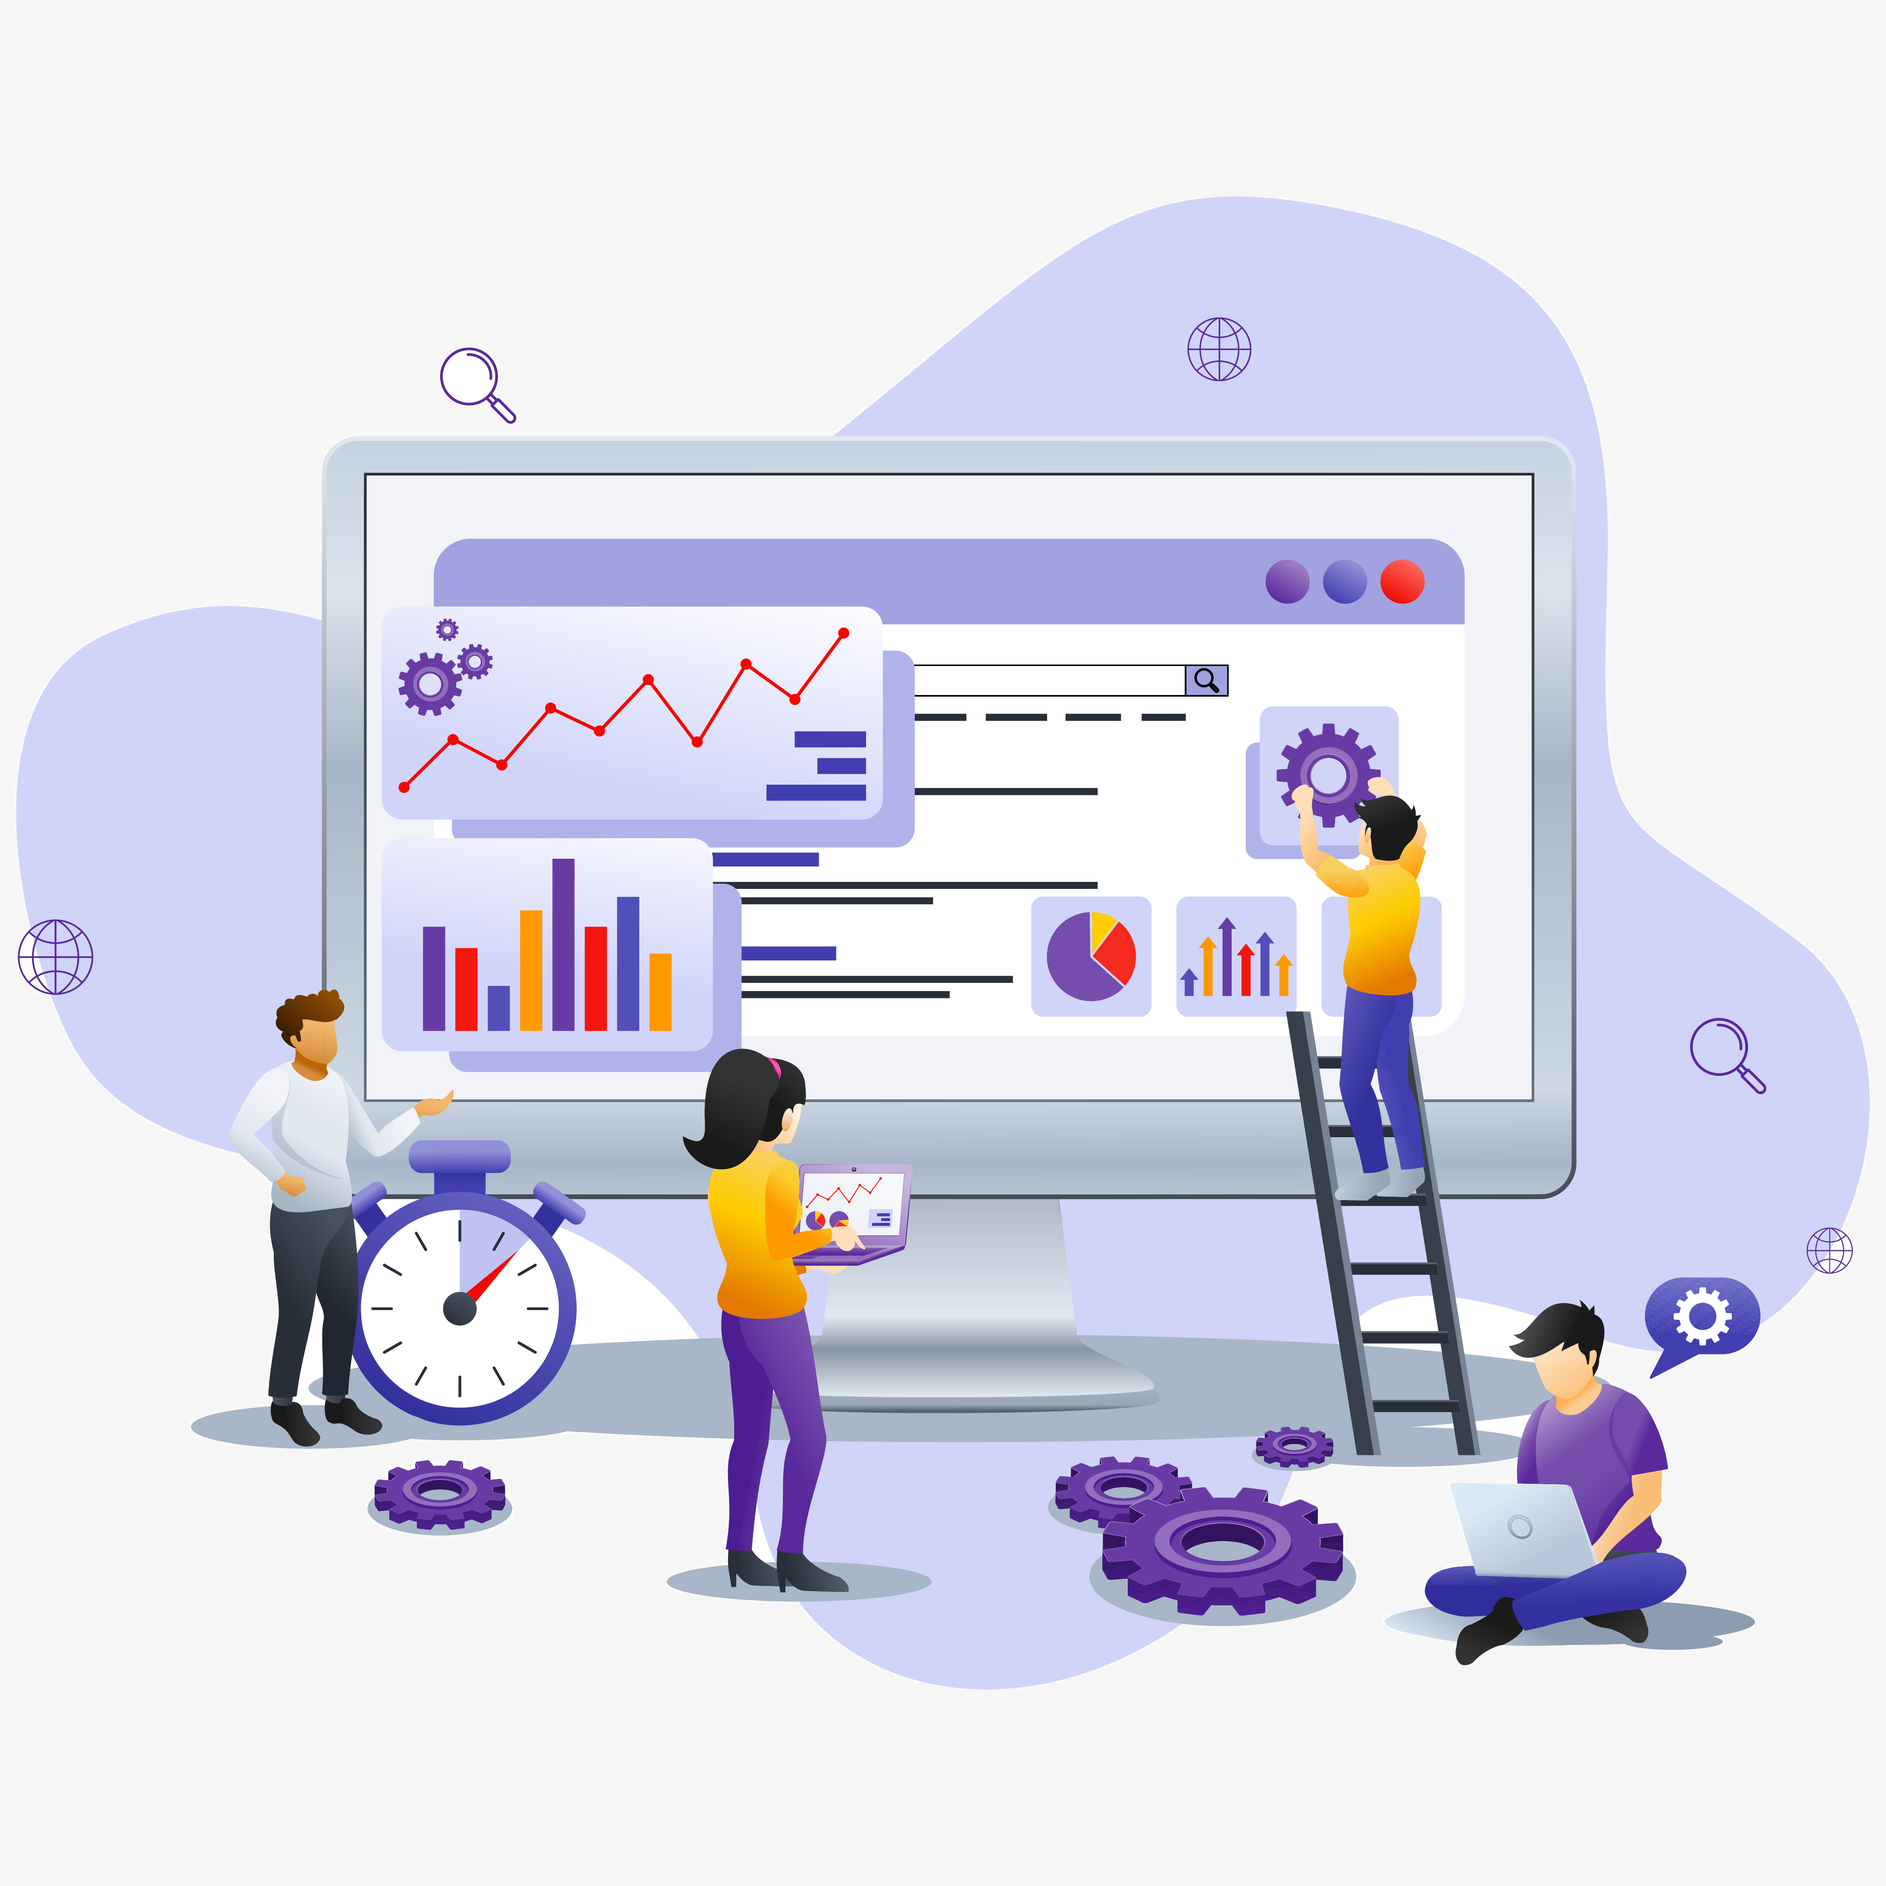
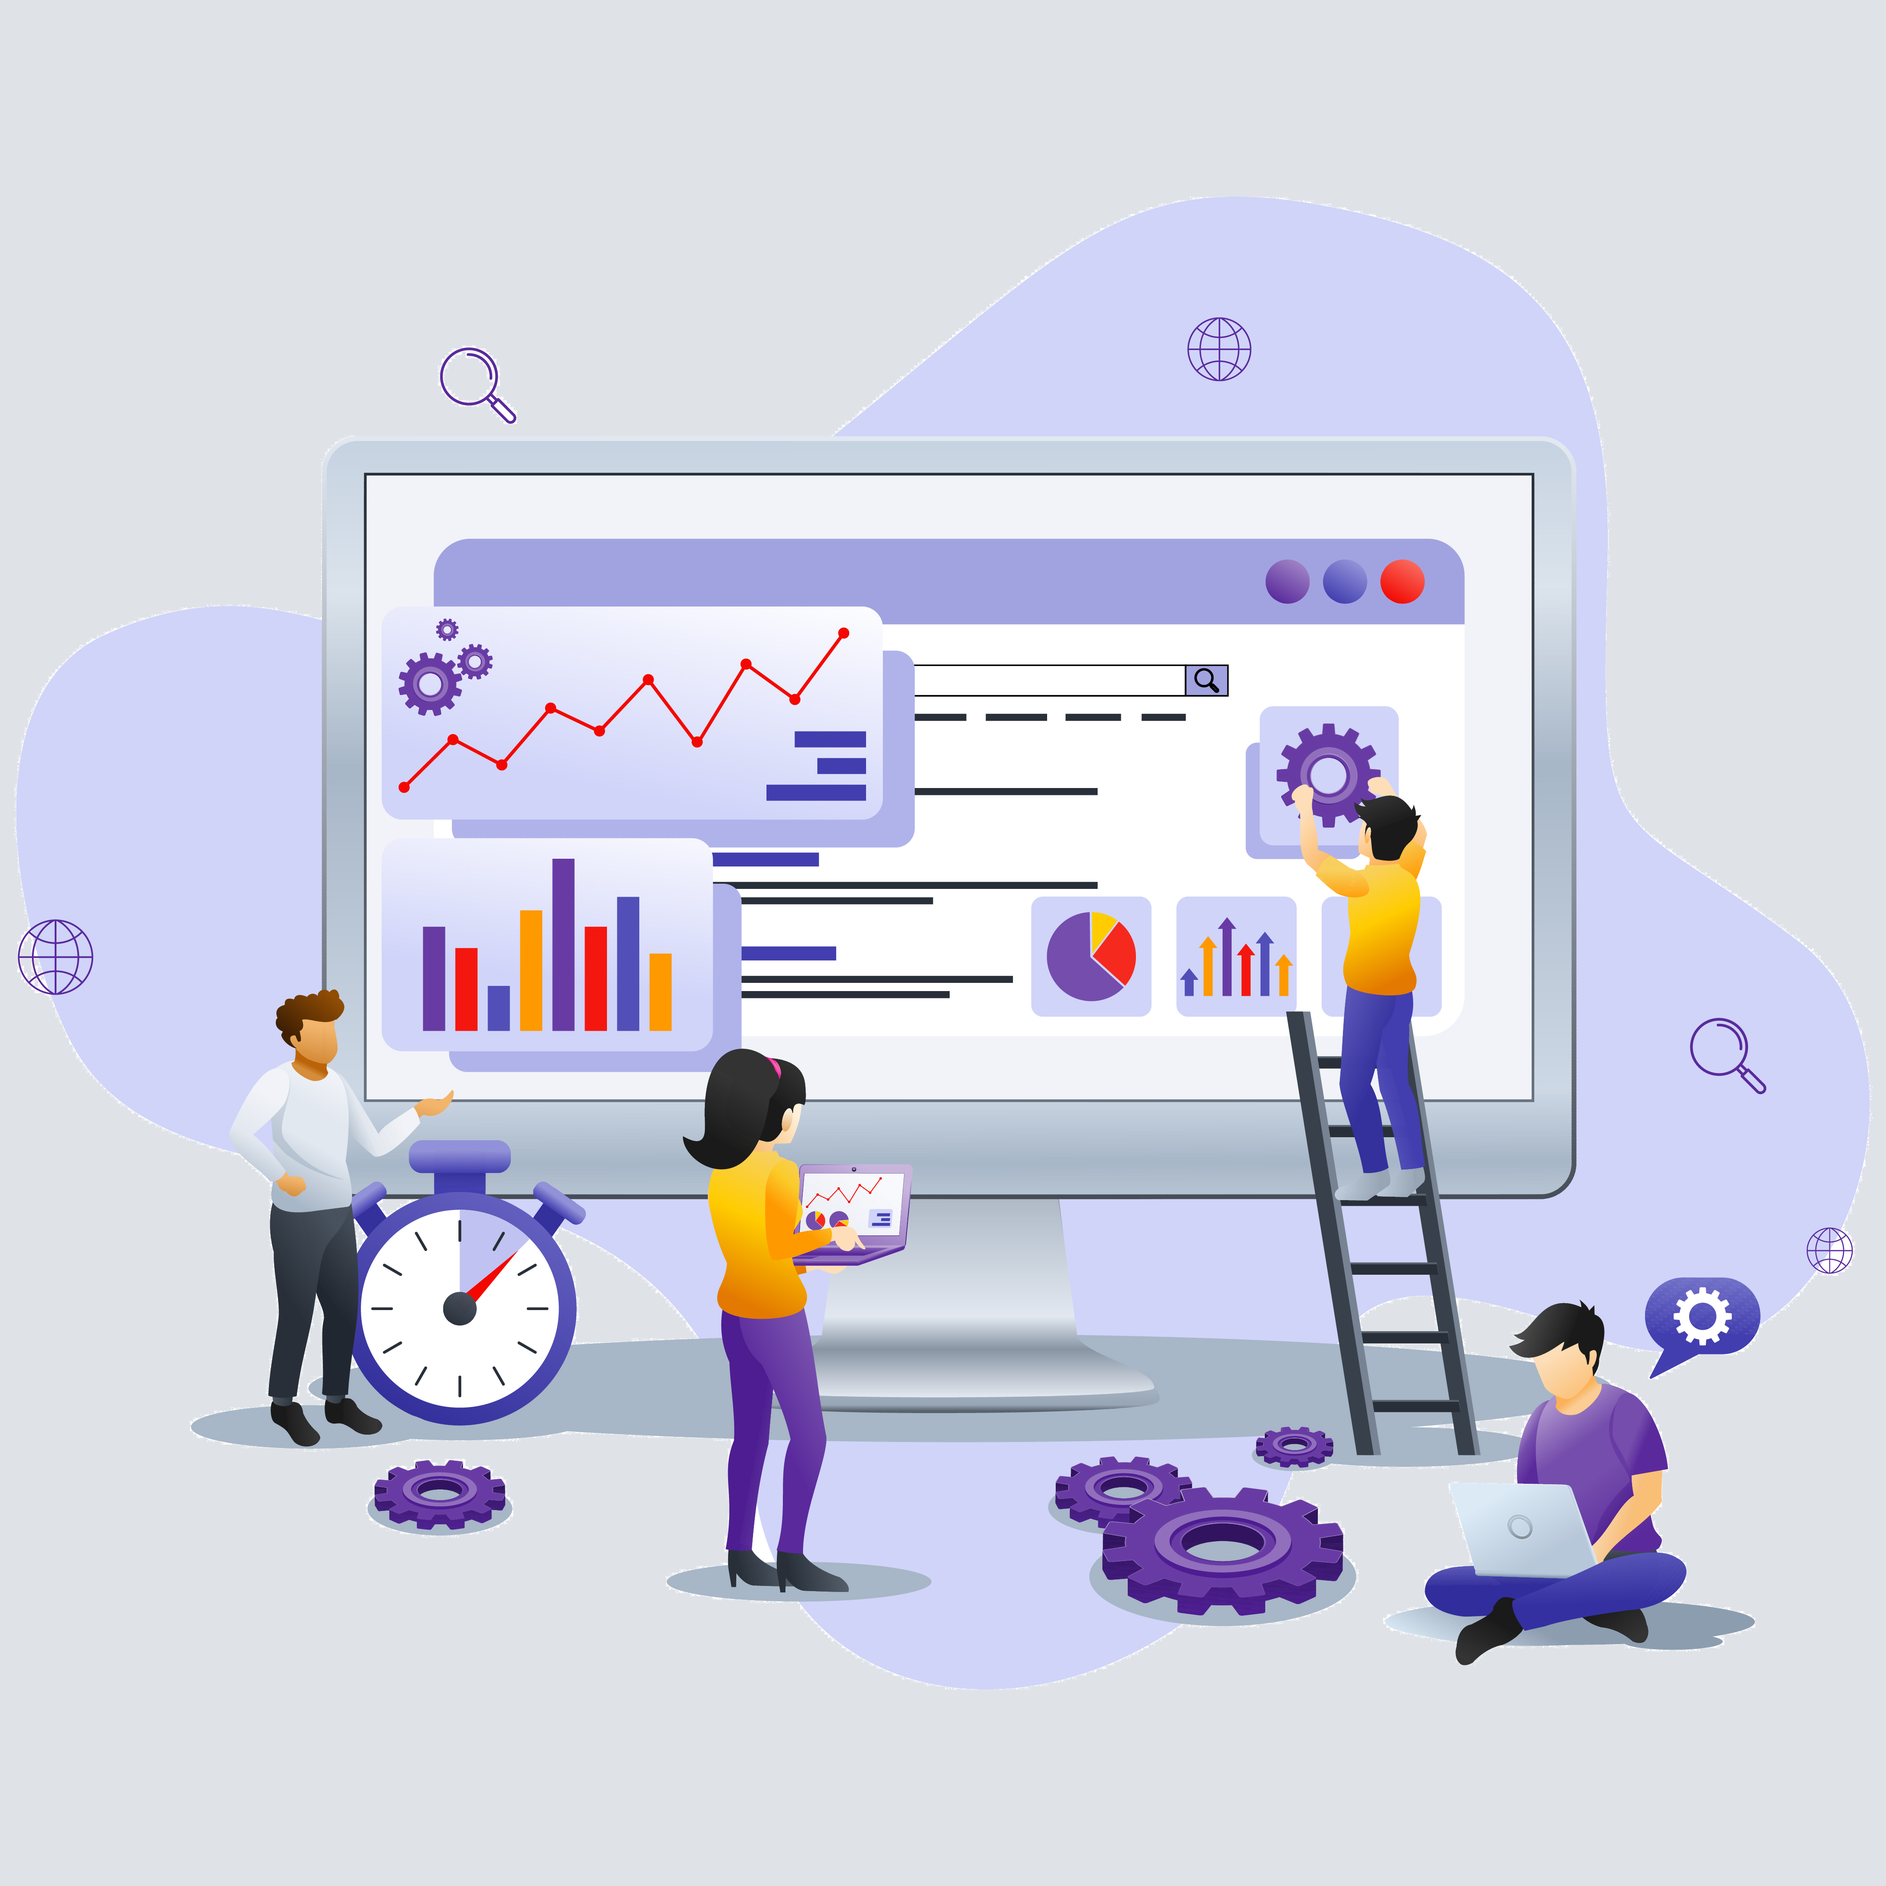
update styles devices

diff --git a/src/components/DevicesComponents/SwitchDevice/SwitchDevice.tsx b/src/components/DevicesComponents/SwitchDevice/SwitchDevice.tsx
@@ -6,9 +6,7 @@ import {
   Grid,
   IconButton,
   Paper,
-  Theme,
-  Typography,
-  useTheme
+  Typography
 } from '@mui/material'
 import LightbulbIcon from '@mui/icons-material/Lightbulb'
 import ElectricalServicesIcon from '@mui/icons-material/ElectricalServices'
@@ -36,7 +34,6 @@ const SwitchDevice = ({ device, variables, sendEvent }: any): JSX.Element => {
     })
   }
 
-  const theme: Theme = useTheme()
   return (
     <Grid item>
       <Paper
@@ -46,7 +43,7 @@ const SwitchDevice = ({ device, variables, sendEvent }: any): JSX.Element => {
           width: '180px',
           height: '200px',
           // backgroundColor: '#00C2A8, #3a3a39',  menu #34383c
-          backgroundColor: '#009EFA',
+          // backgroundColor: '#009EFA',
           display: 'grid',
           gridTemplate: '1fr 1fr / 1fr',
           gap: 0,
@@ -65,8 +62,9 @@ const SwitchDevice = ({ device, variables, sendEvent }: any): JSX.Element => {
         >
           <IconButton aria-label="icon_device">
             <LightbulbIcon
-              sx={{ height: 48, width: 48, opacity: 0.6 }}
-              htmlColor={`${state ? 'white' : '#000'}`}
+              sx={{ height: 48, width: 48 }}
+              // htmlColor="#a1abb3"
+              color={`${state ? 'primary' : 'action'}`}
             />
           </IconButton>
           <ElectricalServicesIcon
@@ -84,7 +82,6 @@ const SwitchDevice = ({ device, variables, sendEvent }: any): JSX.Element => {
         >
           <Box
             sx={{
-              backgroundColor: '#00000042',
               width: '100%',
               textAlign: 'center',
               fontSize: '0.05rem',
@@ -95,7 +92,7 @@ const SwitchDevice = ({ device, variables, sendEvent }: any): JSX.Element => {
               component="h6"
               variant="subtitle1"
               noWrap
-              color={theme.palette.common.white}
+              color="text.primary"
             >
               {device.name}
             </Typography>
@@ -121,9 +118,9 @@ const SwitchDevice = ({ device, variables, sendEvent }: any): JSX.Element => {
                       <Typography
                         variant="subtitle2"
                         component="p"
+                        color="text.secondary"
                         sx={{
                           fontWeight: 600,
-                          color: '#000',
                           letterSpacing: 0.6,
                           opacity: 0.8
                         }}
@@ -134,9 +131,9 @@ const SwitchDevice = ({ device, variables, sendEvent }: any): JSX.Element => {
                       <Typography
                         variant="subtitle2"
                         component="p"
+                        color="text.secondary"
                         sx={{
                           fontWeight: 600,
-                          color: '#000',
                           letterSpacing: 0.6,
                           opacity: 0.8
                         }}

diff --git a/src/components/DevicesComponents/TemperatureSensorDevice/TemperatureSensorDevice.tsx b/src/components/DevicesComponents/TemperatureSensorDevice/TemperatureSensorDevice.tsx
@@ -1,12 +1,4 @@
-import {
-  Box,
-  Grid,
-  IconButton,
-  Paper,
-  Theme,
-  Typography,
-  useTheme
-} from '@mui/material'
+import { Box, Grid, IconButton, Paper, Typography } from '@mui/material'
 import WbSunnyIcon from '@mui/icons-material/WbSunny'
 import { Air, AcUnit } from '@mui/icons-material'
 
@@ -24,6 +16,7 @@ const DoorSensorDevice = ({
   useEffect(() => {
     // setArmed(device.armed)
     setTemp(variables.filter((item: any) => item.name === 'temp')[0].value)
+
     // setBattery(variables.filter((item) => item.name === 'battery')[0].value)
   }, [variables])
 
@@ -38,27 +31,14 @@ const DoorSensorDevice = ({
 
   const handleTempIcon: () => JSX.Element = () => {
     if (temp.value >= 28) {
-      return (
-        <WbSunnyIcon
-          sx={{ height: 48, width: 48, opacity: 0.6 }}
-          htmlColor="white"
-        />
-      )
+      return <WbSunnyIcon sx={{ height: 48, width: 48 }} color="warning" />
     } else if (temp.value >= 25) {
-      return (
-        <Air sx={{ height: 48, width: 48, opacity: 0.6 }} htmlColor="#90fb7d" />
-      )
+      return <Air sx={{ height: 48, width: 48 }} color="success" />
     } else {
-      return (
-        <AcUnit
-          sx={{ height: 48, width: 48, opacity: 0.6 }}
-          htmlColor="black"
-        />
-      )
+      return <AcUnit sx={{ height: 48, width: 48 }} color="primary" />
     }
   }
 
-  const theme: Theme = useTheme()
   return (
     <Grid item>
       <Paper
@@ -67,7 +47,6 @@ const DoorSensorDevice = ({
           borderRadius: '24px 48px 24px 48px',
           width: '180px',
           height: '200px',
-          backgroundColor: '#009EFA',
           display: 'grid',
           gridTemplate: '1fr 1fr / 1fr',
           gap: 0,
@@ -86,7 +65,7 @@ const DoorSensorDevice = ({
         >
           <IconButton aria-label="icon_device">{handleTempIcon()}</IconButton>
           <Typography variant="subtitle2" color="inherit" component="div">
-            {temp.value}° {temp.scale}
+            {temp.value}° {(temp.scale as string).charAt(0).toUpperCase()}
           </Typography>
         </Box>
         <Box
@@ -99,7 +78,6 @@ const DoorSensorDevice = ({
         >
           <Box
             sx={{
-              backgroundColor: '#00000042',
               width: '100%',
               textAlign: 'center',
               letterSpacing: 0.6
@@ -109,7 +87,7 @@ const DoorSensorDevice = ({
               component="h6"
               variant="subtitle1"
               noWrap
-              color={theme.palette.common.white}
+              color="text.primary"
             >
               {device.name}
             </Typography>

diff --git a/src/components/DevicesComponents/MotionSensorDevice/MotionSensorDevice.tsx b/src/components/DevicesComponents/MotionSensorDevice/MotionSensorDevice.tsx
@@ -6,9 +6,7 @@ import {
   Grid,
   IconButton,
   Paper,
-  Theme,
-  Typography,
-  useTheme
+  Typography
 } from '@mui/material'
 import { DirectionsWalk } from '@mui/icons-material'
 import { useEffect, useState } from 'react'
@@ -48,7 +46,6 @@ const MotionSensorDevice = ({
     // })
   }
 
-  const theme: Theme = useTheme()
   return (
     <Grid item>
       <Paper
@@ -57,7 +54,6 @@ const MotionSensorDevice = ({
           borderRadius: '24px 48px 24px 48px',
           width: '180px',
           height: '200px',
-          backgroundColor: '#009EFA',
           display: 'grid',
           gridTemplate: '1fr 1fr / 1fr',
           gap: 0,
@@ -76,8 +72,8 @@ const MotionSensorDevice = ({
         >
           <IconButton aria-label="icon_device">
             <DirectionsWalk
-              sx={{ height: 48, width: 48, opacity: 0.6 }}
-              htmlColor={`${tripped ? 'red' : '#000'}`}
+              sx={{ height: 48, width: 48 }}
+              color={`${tripped ? 'error' : 'action'}`}
             />
           </IconButton>
           <Typography variant="subtitle2" color="inherit" component="div">
@@ -94,7 +90,6 @@ const MotionSensorDevice = ({
         >
           <Box
             sx={{
-              backgroundColor: '#00000042',
               width: '100%',
               textAlign: 'center',
               letterSpacing: 0.6
@@ -104,7 +99,7 @@ const MotionSensorDevice = ({
               component="h6"
               variant="subtitle1"
               noWrap
-              color={theme.palette.common.white}
+              color="text.primary"
             >
               {device.name}
             </Typography>
@@ -130,9 +125,9 @@ const MotionSensorDevice = ({
                       <Typography
                         variant="subtitle2"
                         component="p"
+                        color="text.secondary"
                         sx={{
                           fontWeight: 600,
-                          color: '#000',
                           letterSpacing: 0.6,
                           opacity: 0.8
                         }}
@@ -143,9 +138,9 @@ const MotionSensorDevice = ({
                       <Typography
                         variant="subtitle2"
                         component="p"
+                        color="text.secondary"
                         sx={{
                           fontWeight: 600,
-                          color: '#000',
                           letterSpacing: 0.6,
                           opacity: 0.8
                         }}

diff --git a/src/components/DevicesComponents/DoorSensorDevice/DoorSensorDevice.tsx b/src/components/DevicesComponents/DoorSensorDevice/DoorSensorDevice.tsx
@@ -6,9 +6,7 @@ import {
   Grid,
   IconButton,
   Paper,
-  Theme,
-  Typography,
-  useTheme
+  Typography
 } from '@mui/material'
 import MeetingRoomIcon from '@mui/icons-material/MeetingRoom'
 
@@ -49,7 +47,6 @@ const DoorSensorDevice = ({
     // })
   }
 
-  const theme: Theme = useTheme()
   return (
     <Grid item>
       <Paper
@@ -58,7 +55,6 @@ const DoorSensorDevice = ({
           borderRadius: '24px 48px 24px 48px',
           width: '180px',
           height: '200px',
-          backgroundColor: '#009EFA',
           display: 'grid',
           gridTemplate: '1fr 1fr / 1fr',
           gap: 0,
@@ -77,8 +73,8 @@ const DoorSensorDevice = ({
         >
           <IconButton aria-label="icon_device">
             <MeetingRoomIcon
-              sx={{ height: 48, width: 48, opacity: 0.6 }}
-              htmlColor={`${tripped ? 'red' : '#000'}`}
+              sx={{ height: 48, width: 48 }}
+              color={`${tripped ? 'error' : 'action'}`}
             />
           </IconButton>
           <Typography variant="subtitle2" color="inherit" component="div">
@@ -95,7 +91,6 @@ const DoorSensorDevice = ({
         >
           <Box
             sx={{
-              backgroundColor: '#00000042',
               width: '100%',
               textAlign: 'center',
               letterSpacing: 0.6
@@ -105,7 +100,7 @@ const DoorSensorDevice = ({
               component="h6"
               variant="subtitle1"
               noWrap
-              color={theme.palette.common.white}
+              color="text.primary"
             >
               {device.name}
             </Typography>
@@ -131,9 +126,9 @@ const DoorSensorDevice = ({
                       <Typography
                         variant="subtitle2"
                         component="p"
+                        color="text.secondary"
                         sx={{
                           fontWeight: 600,
-                          color: '#000',
                           letterSpacing: 0.6,
                           opacity: 0.8
                         }}
@@ -144,9 +139,9 @@ const DoorSensorDevice = ({
                       <Typography
                         variant="subtitle2"
                         component="p"
+                        color="text.secondary"
                         sx={{
                           fontWeight: 600,
-                          color: '#000',
                           letterSpacing: 0.6,
                           opacity: 0.8
                         }}

diff --git a/src/theme/palette.tsx b/src/theme/palette.tsx
@@ -30,9 +30,9 @@ const GREY = {
 
 const PRIMARY = {
   lighter: '#D1E9FC',
-  light: '#76B0F1',
-  main: '#009EFA',
-  dark: '#103996',
+  light: '#33a7ee',
+  main: '#0091ea',
+  dark: '#0065a3',
   darker: '#061B64',
   contrastText: '#fff'
 }
@@ -110,8 +110,8 @@ const palette = {
   gradients: GRADIENTS,
   chart: CHART_COLORS,
   divider: GREY[500_24],
-  text: { primary: GREY[800], secondary: GREY[600], disabled: GREY[500] },
-  background: { paper: '#fff', default: GREY[100], neutral: GREY[200] },
+  text: { primary: GREY[700], secondary: GREY[600], disabled: GREY[500] },
+  background: { paper: '#fff', default: GREY[300], neutral: GREY[200] },
   action: {
     active: GREY[600],
     hover: GREY[500_8],

diff --git a/src/components/CustomizedSwitch/CustomizedSwitch.tsx b/src/components/CustomizedSwitch/CustomizedSwitch.tsx
@@ -7,17 +7,17 @@ const MaterialUISwitch: FunctionComponent<ButtonProps> = styled(
   ({ ...props }) => <Switch {...props} />
 )(({ theme }) => ({
   '& .MuiSwitch-switchBase': {
-    color: 'inherit',
+    color: '#637381',
 
     '&.Mui-checked': {
-      color: theme.palette.common.white,
+      color: theme.palette.primary,
       '& + .MuiSwitch-track': {
-        backgroundColor: theme.palette.common.black
+        // backgroundColor: theme.palette.common.black
       }
     }
   },
   '& .MuiSwitch-track': {
-    backgroundColor: theme.palette.common.black
+    // backgroundColor: theme.palette.common.black
   }
 }))
 

diff --git a/src/containers/MainLayout/MainLayout.tsx b/src/containers/MainLayout/MainLayout.tsx
@@ -141,7 +141,6 @@ const MainLayout = ({ window }: any): JSX.Element => {
           flexGrow: 1,
           p: 3,
           width: { sm: `calc(100% - ${drawerWidth}px)` },
-          backgroundColor: '#f3f6f9',
           height: '100vh'
         }}
       >
